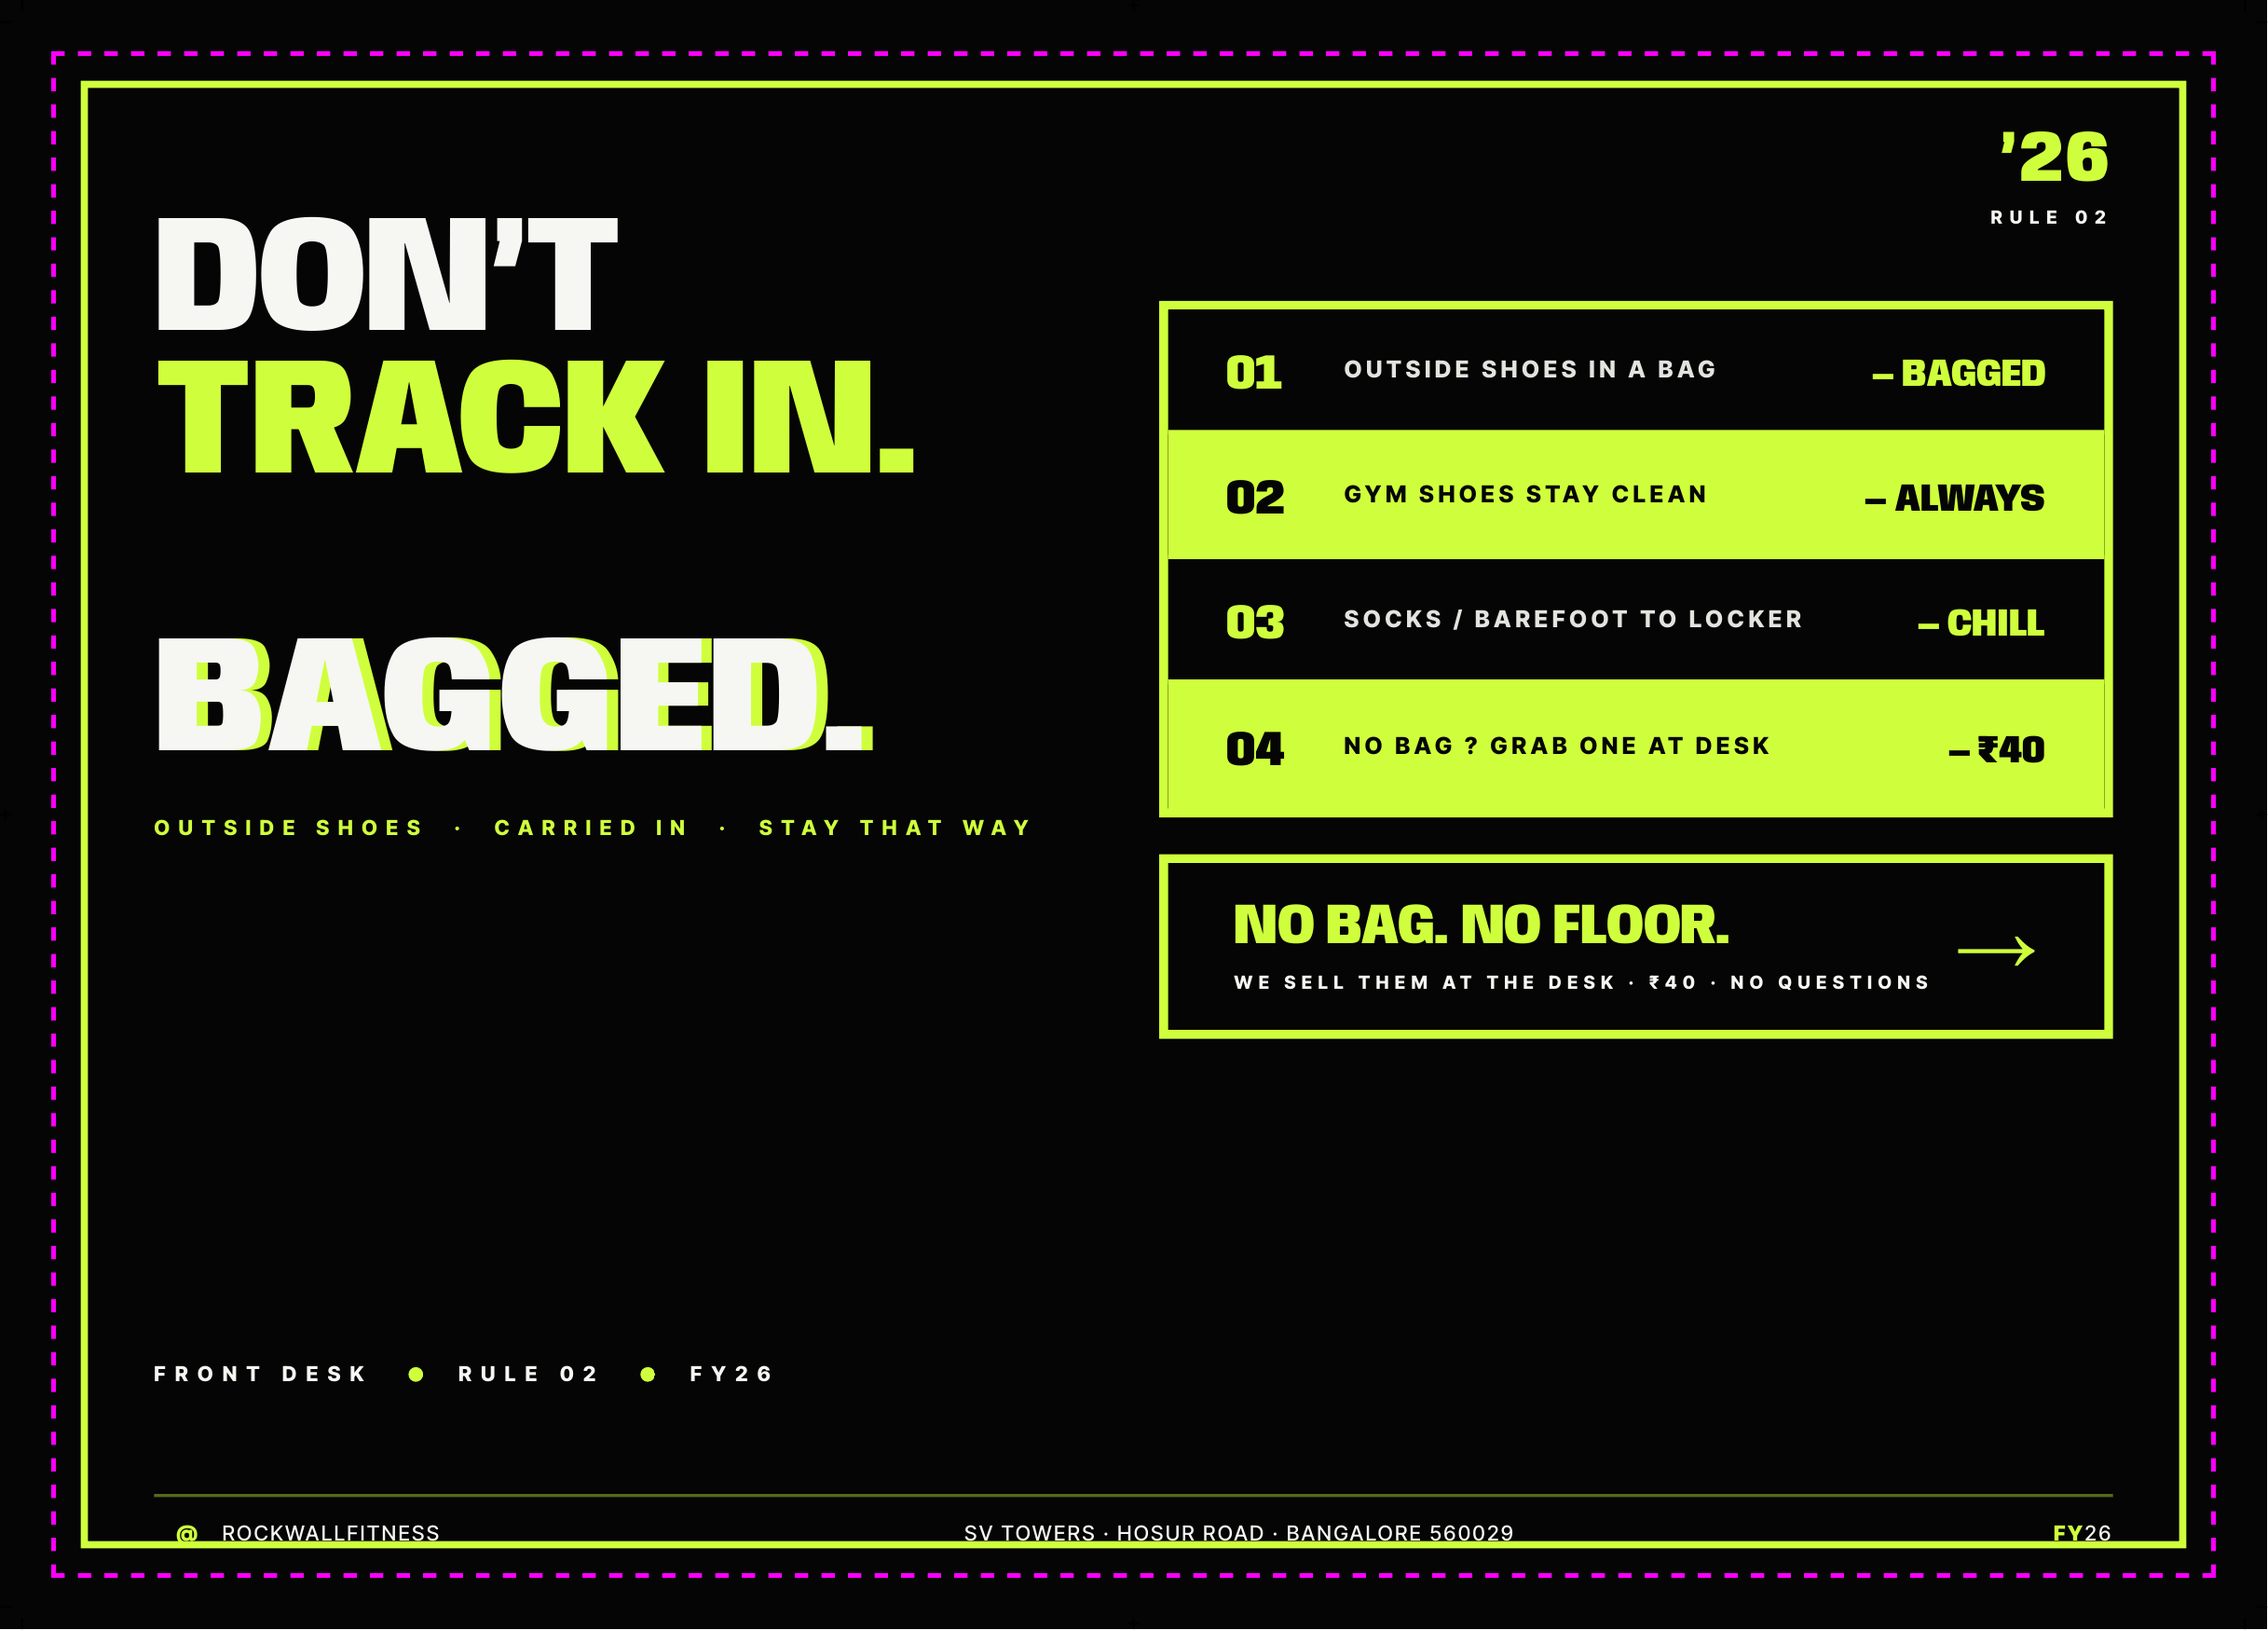
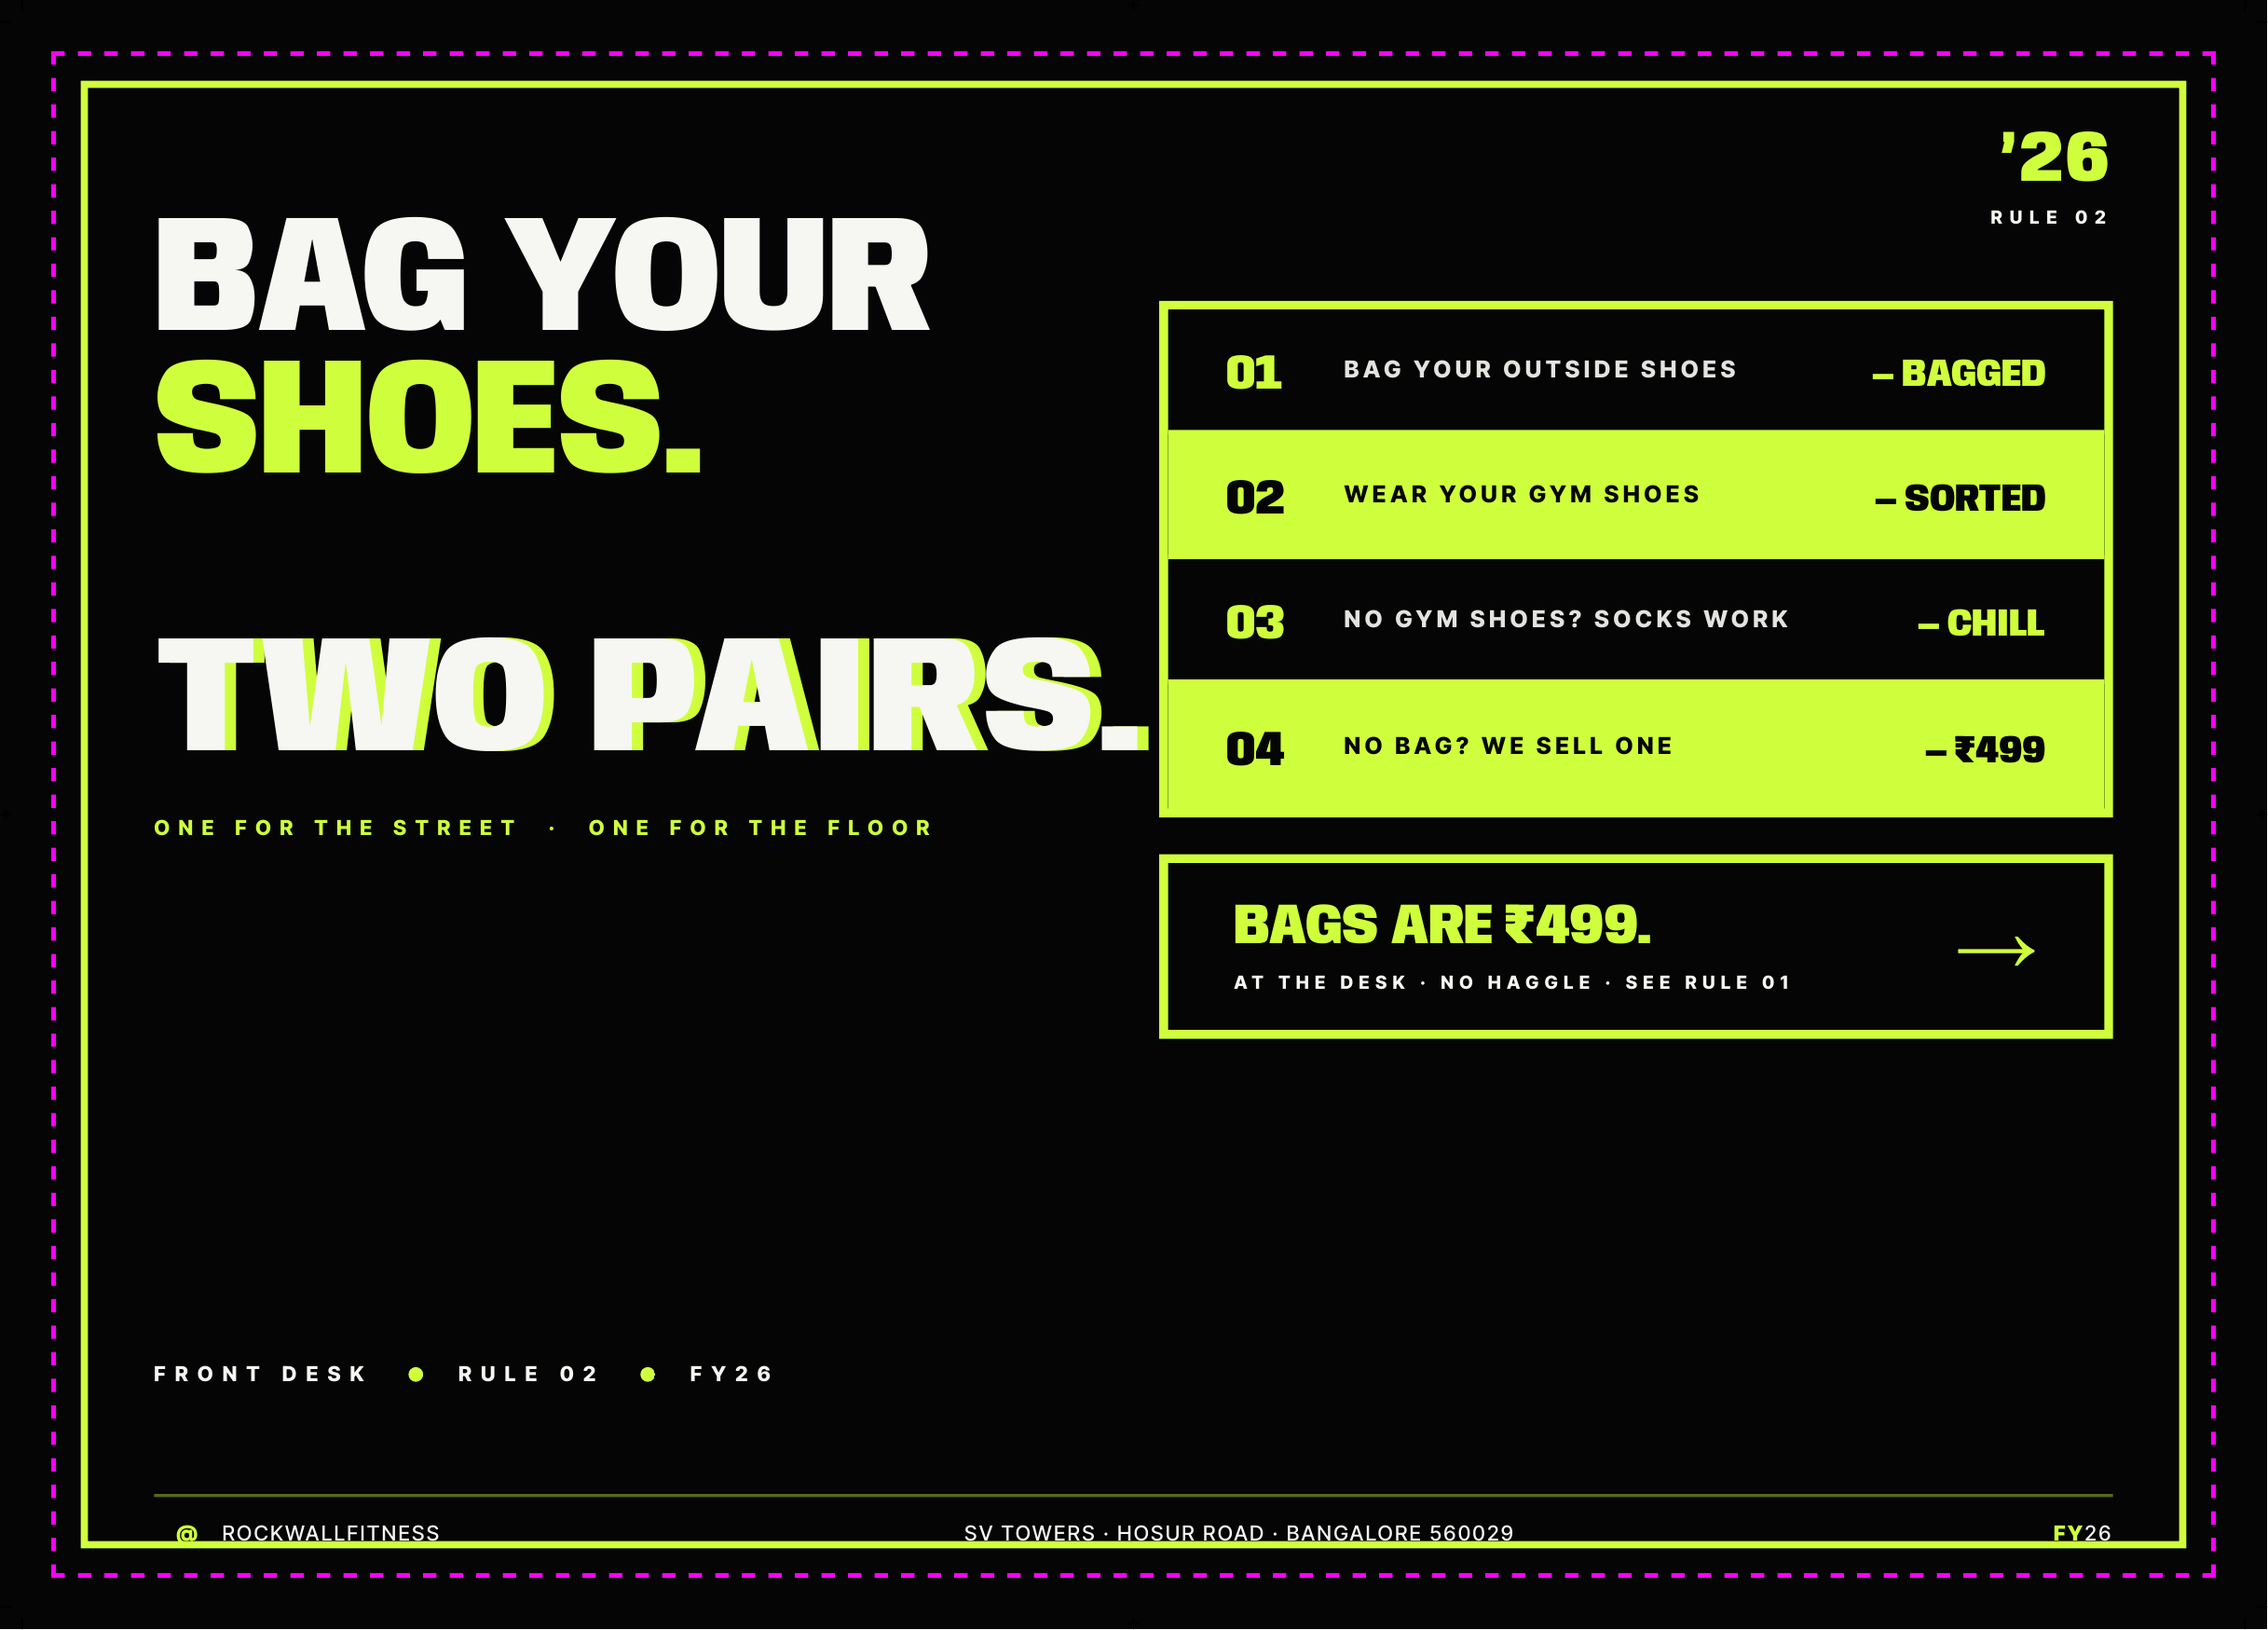
Shoe sticker v2 — clarity + actual bag price + layered Rule 01 callback
User: 'message is not very clear. also not very funny. our bags are ₹499.'

Three fixes
-----------
1. ₹40 -> ₹499  (real product price)
2. Clarity — every line now states the actual rule, no metaphor
3. Layered joke that lands by referencing Rule 01

Copy rewrites
-------------
HERO:         DON'T TRACK IN.    ->  BAG YOUR SHOES.
              (metaphor)             (literal instruction +
                                      mirrors DON'T HAGGLE.)

GHOST:        BAGGED.            ->  TWO PAIRS.
              (slang only)           (the whole rule in 2 words)

GHOST SUB:    OUTSIDE SHOES ·    ->  ONE FOR THE STREET ·
              CARRIED IN ·            ONE FOR THE FLOOR
              STAY THAT WAY
              (vague)                (the rationale in 8 words)

RULES (now full imperatives + Gen-Z tag punchlines):
  01  BAG YOUR OUTSIDE SHOES       — BAGGED
  02  WEAR YOUR GYM SHOES          — SORTED
  03  NO GYM SHOES? SOCKS WORK     — CHILL
  04  NO BAG? WE SELL ONE          — ₹499

SIGN-OFF:     NO BAG. NO FLOOR.  ->  BAGS ARE ₹499.
              WE SELL THEM ·          AT THE DESK ·
              ₹40 · NO QUESTIONS      NO HAGGLE · SEE RULE 01

The layered joke that pays off for Christ kids who walk past both:
  - Row 04 ends with the actual product price (₹499)
  - Sign-off declares it again ('BAGS ARE ₹499.')
  - Sign-off sub-line says 'NO HAGGLE' — which IS the other sticker
  - Then 'SEE RULE 01' makes the callback explicit
[…]

diff --git a/sticker_shoes.html b/sticker_shoes.html
@@ -102,7 +102,7 @@
     transform-origin: left center;
   }
   .big-word::before {
-    content: "BAGGED.";
+    content: "TWO PAIRS.";
     position: absolute;
     top: 0; left: 0;
     width: 100%;
@@ -283,13 +283,13 @@
     <!-- LEFT COLUMN -->
     <div class="left-col">
       <h1 class="hero-headline">
-        DON&rsquo;T<br>
-        <span class="lime">TRACK IN.</span>
+        BAG YOUR<br>
+        <span class="lime">SHOES.</span>
       </h1>
 
       <div class="big-word-wrap">
-        <span class="big-word">BAGGED.</span>
-        <div class="big-sub">OUTSIDE SHOES &nbsp;&middot;&nbsp; CARRIED IN &nbsp;&middot;&nbsp; STAY THAT WAY</div>
+        <span class="big-word">TWO PAIRS.</span>
+        <div class="big-sub">ONE FOR THE STREET &nbsp;&middot;&nbsp; ONE FOR THE FLOOR</div>
       </div>
 
       <div class="hero-tag">
@@ -302,30 +302,30 @@
       <div class="rule-table">
         <div class="rule-row even">
           <div class="row-num">01</div>
-          <div class="row-stmt">OUTSIDE SHOES IN A BAG</div>
+          <div class="row-stmt">BAG YOUR OUTSIDE SHOES</div>
           <div class="row-tag">&mdash; BAGGED</div>
         </div>
         <div class="rule-row odd">
           <div class="row-num">02</div>
-          <div class="row-stmt">GYM SHOES STAY CLEAN</div>
-          <div class="row-tag">&mdash; ALWAYS</div>
+          <div class="row-stmt">WEAR YOUR GYM SHOES</div>
+          <div class="row-tag">&mdash; SORTED</div>
         </div>
         <div class="rule-row even">
           <div class="row-num">03</div>
-          <div class="row-stmt">SOCKS / BAREFOOT TO LOCKER</div>
+          <div class="row-stmt">NO GYM SHOES? SOCKS WORK</div>
           <div class="row-tag">&mdash; CHILL</div>
         </div>
         <div class="rule-row odd">
           <div class="row-num">04</div>
-          <div class="row-stmt">NO BAG ? GRAB ONE AT DESK</div>
-          <div class="row-tag">&mdash; &#8377;40</div>
+          <div class="row-stmt">NO BAG? WE SELL ONE</div>
+          <div class="row-tag">&mdash; &#8377;499</div>
         </div>
       </div>
 
       <div class="signoff">
         <div>
-          <div class="signoff-text">NO BAG. NO FLOOR.</div>
-          <div class="signoff-sub">WE SELL THEM AT THE DESK &middot; &#8377;40 &middot; NO QUESTIONS</div>
+          <div class="signoff-text">BAGS ARE &#8377;499.</div>
+          <div class="signoff-sub">AT THE DESK &middot; NO HAGGLE &middot; SEE RULE 01</div>
         </div>
         <div class="signoff-arrow">&rarr;</div>
       </div>
